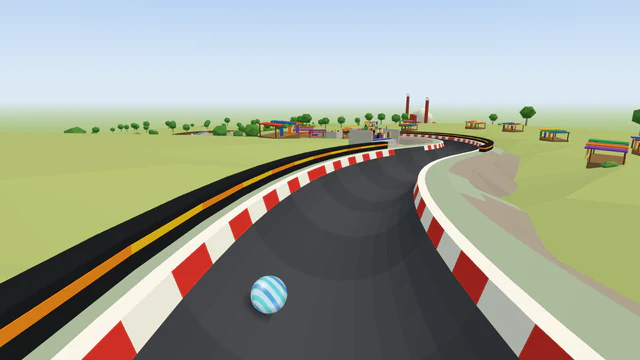
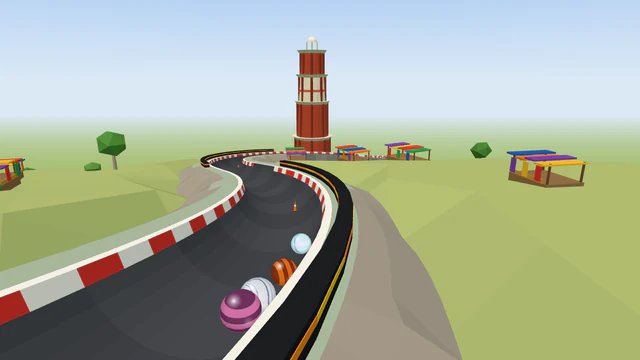
Delhi Red Fort Marble Grand Prix: its own layout; its records start again
Moses's order (7 Nov 2026, 08:26), the second of four: its own layout and opening, two signature
features from the real place, no jump. Until now Delhi was the Grand Prix recipe of 10 Oct 2026
(Dubai's track). A tunnel-launch opening (the Rampart drop through the Lahori Gate, in the fort's
walls: big feature one; first bend right, Pudong's turns left), the Chandni Chowk S-bends (a slalom,
then two cones), the Qutub Minar spiral (big feature two, the signature: a turn and a half round a
new landmark, the Qutub Minar, looks only; its TV camera at the foot), the Jama Masjid sweep, the
Lutyens bank (160°), the Connaught hairpin, the drop to Raj Ghat, the Lodhi S-bends and Kartavya Path
to India Gate. Every bend's direction chosen so no stretch runs close under another. Start shots
from above, then a low chase; the paddle gate. Fewer plane trees, no crowd at Chandni Chowk and
spectator groups 650 m apart: the flyover's triangle budget.

Full report: all 50 lines pass (winner 54.6 s, last 80.5 s, gap 15.7 s, 65 overtakes; layout closest
0.57, first 20 seconds closest 0.78; computer flyover 147k triangles). Website TV camera test passes.
Data update 2027-06-07-delhi-red-fort-marble-grand-prix-new-layout.sql (--relayout: its records start
again). Off the sameness test's known failures. Docs: 06, README, src/tracks/README.md. Server suite
626 pass; website 1810 pass.

Claude-Session: https://claude.ai/code/session_011vSSkqNPL9kncfzrwF15wS

diff --git a/src/tracks/delhi-red-fort-marble-grand-prix.js b/src/tracks/delhi-red-fort-marble-grand-prix.js
@@ -1,57 +1,73 @@
 'use strict';
 
-const { track, plunge, straight, sBends, sweep, spiral, hairpin, splitter, runIn, pileUp, swipe, parked, slalom, boost, rumble } = require('../trackKit');
+// Delhi Red Fort Marble Grand Prix, its own layout (Moses, 7 Nov 2026: four more Grand Prix tracks re-laid the same
+// way as Lagos, Istanbul and Sydney; Delhi second). Until then it was the Grand Prix recipe of 10 Oct 2026 (the same
+// track as Dubai). Now the field drops from the Red Fort's ramparts through the Lahori Gate (big feature one: the
+// tunnel launch, through the fort's walls), threads the Chandni Chowk S-bends, spirals down round the Qutub Minar
+// (big feature two, the signature), sweeps past the Jama Masjid, banks round through Lutyens' Delhi to the Connaught
+// hairpin, drops to Raj Ghat, takes the Lodhi S-bends and runs down Kartavya Path to India Gate. Its records started
+// again with the new layout (tracks.records_since).
+const {
+  track, opening, straight, plunge, sBends, sweep, spiral, hairpin, runIn, peg, slalom, swipe, rumble,
+} = require('../trackKit');
 
 module.exports = track({
   slug: 'delhi-red-fort-marble-grand-prix',
   name: 'Delhi Red Fort Marble Grand Prix',
   difficulty: 'extreme',
-  description: 'From the ramparts of the Red Fort and out under its great gateway, through the bustle of Chandni Chowk and past the Jama Masjid, down onto the ceremonial avenue to India Gate.',
+  description: 'From the Red Fort\'s ramparts and out through the Lahori Gate, through the bustle of Chandni Chowk, spiralling down round the Qutub Minar, past the Jama Masjid and round Lutyens\' Delhi, down to Raj Ghat and along Kartavya Path to India Gate.',
   surface: 'asphalt',
   biome: 'city',
   lighting: 'day',
   variants: ['sunset'],
-  grandPrix: { barrier: 'marigolds' },
-  signature: 'Rampart plunge',
+  grandPrix: { barrier: 'marigolds', groupsEvery: 650 }, // (the small groups of spectators further apart than usual: the flyover's drawing budget)
+  signature: 'Qutub Minar spiral',
   tvCameras: [
-    { section: 'Garden splitter', at: 0.8, side: 'left', distance: 10, height: 8 },
-    { section: 'Avenue spiral', at: 0.8, side: 'left', distance: 10, height: 12 },
+    // (At the foot of the spiral, looking back up it round the tower.)
+    { section: 'Qutub Minar spiral', at: 0.85, side: 'right', distance: 10, height: 12 },
   ],
   billboardFrame: 'plain',
-  start: { landmark: 'red-fort', scenery: ['grandstand'], shots: { countdown: 'above', launch: 'side' } },
+  start: { landmark: 'red-fort', scenery: ['grandstand'], gate: 'paddle', shots: { countdown: 'above', launch: 'low-chase' } },
   finish: { landmark: 'india-gate', scenery: ['grandstand'] },
   designChanges: [
-    'The traffic-cone chicane is at the foot of the Rampart plunge, straight after the tyre stacks, rather than on the finish straight: a start with only the tyre stacks lets the strongest marbles win too often and sends the field into the splitter sorted by strength.',
-    'The fort\'s gateway stands over the foot of the plunge, 85 m from the gate, rather than at its top: higher up the channel is still the starting funnel, wider than the gateway\'s arch.',
-    'The parked auto-rickshaw stands on a straight, "Run to the hairpin", rather than in the Chandni Chowk S-bends: the recipe keeps parked objects to straights (on a bend one traps marbles against it).',
-    'The Garden splitter comes straight after the Chandni Chowk S-bends, before the Mosque sweep, rather than after the hairpin: out of the hairpin the whole field rides one side of the channel and the splitter cannot share it out fairly (measured on Dubai Marble Grand Prix).',
-    'A 50 m straight before the hairpin: the recipe needs a braking zone before the one sharp bend.',
-    'The rumble strips are on a straight, "Kartavya Path", between the spiral and the finish rather than on the spiral: the recipe keeps bumps off bends (marbles high on the wall are thrown off them). The marigold garlands hang on the barriers round every bend.',
+    'A new layout (7 Nov 2026): until then Delhi was physically the Grand Prix recipe of 10 Oct 2026 (the same track as Dubai Marble Grand Prix). Its old signature, the Rampart plunge, goes, and so do the Garden splitter and the boost pad on the Mosque sweep.',
+    'Two Delhi features: the Lahori Gate (big feature one: the tunnel launch, the drop from the ramparts diving through the fort\'s walls) and the Qutub Minar spiral (big feature two, the signature: a turn and a half down round the tower, a new landmark, looks only). Then a banked turn through Lutyens\' Delhi (160°) and the drop to Raj Ghat. No jump: the three jump tracks are used.',
+    'The opening a tunnel launch, its first bend to the right (Pudong Marble Grand Prix\'s turns left): the latest re-layouts opened with a split start, a crest, a pipe drop, a funnel drop and a banked turn. Its start shots (from above, then a low chase) and its paddle gate are its own among the Grand Prix tracks.',
+    'The Chandni Chowk S-bends\' slalom before their two cones, not a cone and then the slalom: the other way round, the first 20 seconds were too like Pudong Marble Grand Prix\'s (0.88).',
+    'Plane trees on the Qutub Minar spiral, the Lodhi S-bends and Kartavya Path only (not on the Lutyens bank or the drop to Raj Ghat): with them everywhere, and the small groups of spectators at the usual spacing, the flyover\'s first frame on a computer drew 151k triangles, over the 150k budget; the groups are 650 m apart and the Chandni Chowk S-bends have market stalls but no crowd.',
+  'Each bend\'s direction chosen out of the 64 ways the six could turn so that no stretch runs close under another (the nearest, the Connaught hairpin, 24 m aside of the spiral and 78 m below it): on the first drawing the Jama Masjid sweep ran 7 m aside of the Chandni Chowk S-bends, 77 m below them, where the follow camera would have gone into the bank between them (as on Nairobi\'s first drawing).',
   ],
+  opening: opening('tunnel-launch', {
+    costumes: { block: 'tyre-stack', slalom: 'traffic-cone' },
+    names: { portal: 'Rampart drop', tunnel: 'Lahori Gate' },
+    tunnel: 'city-wall',
+    dress: { portal: { scenery: ['battlements'] } },
+  }),
   sections: [
     {
-      name: 'Rampart plunge', shape: plunge(80, { grade: 0.6 }),
-      obstacles: [pileUp({ costume: 'tyre-stack', at: 0.42 }), slalom({ costume: 'traffic-cone', from: 0.55, to: 0.97, count: 6, loss: 0.3 })],
-      landmarks: [{ name: 'red-fort-gate', at: 0.86, over: true }],
+      name: 'Chandni Chowk S-bends', shape: sBends({ first: 'right', radius: 70, degrees: 80, grade: 0.17 }), billboards: 2, scenery: ['market-stalls'],
+      obstacles: [slalom({ costume: 'traffic-cone', from: 0.12, to: 0.5, count: 4, loss: 0.15 }), peg({ costume: 'traffic-cone', at: 0.65, line: 'left' }), peg({ costume: 'traffic-cone', at: 0.85, line: 'right' })],
     },
-    { name: 'Chandni Chowk S-bends', shape: sBends({ first: 'left', radius: 75, degrees: 80, grade: 0.13 }), billboards: 2, scenery: ['market-stalls', 'crowd'] },
+    { name: 'Qutub Minar spiral', shape: spiral({ side: 'right', radius: 42, turns: 1.5, grade: 0.2 }), around: 'qutub-minar', scenery: ['plane-trees'] },
     {
-      name: 'Garden splitter', shape: splitter({ side: 'left', balance: { tipOffset: -0.8, left: { drag: 1.32, scrub: 1.32 }, right: { drag: 0.42, scrub: 0.72 } } }),
-      around: 'mughal-fountain', scenery: ['plane-trees'],
+      name: 'Jama Masjid sweep', shape: sweep({ side: 'left', radius: 80, degrees: 120, grade: 0.1 }), billboards: 1,
+      landmarks: [{ name: 'jama-masjid', at: 0.5, side: 'right', distance: 40 }],
     },
-    {
-      name: 'Mosque sweep', shape: sweep({ side: 'right', radius: 80, degrees: 160, grade: 0.07 }), features: [boost({ at: 0.08 })], billboards: 3,
-      landmarks: [{ name: 'jama-masjid', at: 0.5, side: 'left', distance: 40 }],
-    },
+    { name: 'Lutyens bank', shape: sweep({ side: 'left', radius: 60, degrees: 160, grade: 0.12 }) },
     {
       name: 'Run to the hairpin', shape: straight(50, { grade: 0.12 }), billboards: 1, scenery: ['market-stalls'],
-      obstacles: [parked({ costume: 'auto-rickshaw', at: 0.08, side: 'right', length: 5 })],
+      obstacles: [peg({ costume: 'traffic-cone', at: 0.3, line: 'right' })],
     },
-    { name: 'Hairpin', shape: hairpin({ side: 'left' }), obstacles: [swipe({ costume: 'camera-crane', side: 'high' })] },
-    { name: 'Avenue spiral', shape: spiral({ side: 'right', radius: 45, grade: 0.17 }), scenery: ['plane-trees'] },
+    { name: 'Connaught hairpin', shape: hairpin({ side: 'right' }), obstacles: [swipe({ costume: 'camera-crane', side: 'high' })], scenery: ['grandstand'] },
+    { name: 'Down to Raj Ghat', shape: plunge(45, { grade: 0.28, from: 0.16 }), obstacles: [slalom({ costume: 'traffic-cone', from: 0.3, to: 0.9, count: 4, loss: 0.3 })] },
     {
-      name: 'Kartavya Path', shape: straight(90, { grade: 0.15 }), features: [rumble({ from: 0.45, to: 0.95, count: 5 })], billboards: 2,
-      scenery: ['grandstand', 'plane-trees'],
+      name: 'Lodhi S-bends', shape: sBends({ first: 'left', radius: 75, degrees: 85, grade: 0.16 }), scenery: ['plane-trees'],
+      obstacles: [peg({ costume: 'traffic-cone', at: 0.2, line: 'center' }), slalom({ costume: 'traffic-cone', from: 0.4, to: 0.75, count: 3, loss: 0.15 }), peg({ costume: 'traffic-cone', at: 0.9, line: 'right' })],
+    },
+    {
+      name: 'Kartavya Path', shape: straight(60, { grade: 0.15 }), billboards: 2, scenery: ['grandstand', 'plane-trees'],
+      obstacles: [peg({ costume: 'traffic-cone', at: 0.25, line: 'right' }), peg({ costume: 'traffic-cone', at: 0.45, line: 'left' })],
+      features: [rumble({ from: 0.7, to: 0.95, count: 3 })],
     },
     { name: 'Finish', shape: runIn(), scenery: ['grandstand'] },
   ],

diff --git a/src/trackKit/parts.js b/src/trackKit/parts.js
@@ -321,7 +321,7 @@ module.exports = {
     'wudian-hall', 'watchtower', 'pagoda', 'rice-terraces', 'lantern-row', 'temple-of-heaven',
     'dubai-fountain', 'marina', 'harbour', 'opera-house', 'galata-tower', 'hagia-sophia', 'blue-mosque', 'bosphorus-bridge', 'tulip-garden',
     'lagos-skyline', 'national-theatre', 'roundabout-monument', 'kicc-tower', 'acacia', 'safari-truck', 'park-fence',
-    'royal-palace', 'city-hall', 'vasa-museum', 'steamboats', 'red-fort', 'red-fort-gate', 'jama-masjid', 'india-gate', 'mughal-fountain',
+    'royal-palace', 'city-hall', 'vasa-museum', 'steamboats', 'red-fort', 'red-fort-gate', 'jama-masjid', 'india-gate', 'mughal-fountain', 'qutub-minar',
     'kasbah', 'mud-mosque', 'caravan',
     'giant-tree', 'tree-platform', 'glow-flowers', 'snow-castle', 'snow-island', 'ice-palace',
     'ruined-castle', 'sleeping-dragon', 'fallen-statue', 'amphitheatre', 'dragon-mountain',
@@ -422,7 +422,7 @@ module.exports = {
   // What stands in the middle of a splitter, between its two channels (the arch: over one of
   // them), or in the middle of a spiral or a hairpin.
   AROUND: ['mountain-hut', 'big-rock', 'mountain-restaurant', 'mine-headframe', 'nunatak', 'bell-tower', 'arc-de-triomphe', 'obelisk', 'notre-dame', 'oasis', 'twisted-tower', 'river-island', 'anaconda', 'watchtower', 'pagoda',
-    'museum-of-the-future', 'dubai-frame', 'opera-house', 'tulip-garden', 'roundabout-monument', 'acacia', 'mughal-fountain', 'giant-tree', 'snow-island', 'fallen-statue', 'volcano-rock', 'sagrada-familia', 'frozen-waterfall', 'limestone-island', 'sea-islet', 'giant-redwood', 'lantern-chedi', 'watermill', 'confucius-temple', 'castle-keep', 'magician-trunk', 'top-hat', 'jukebox-tower', 'clocktower', 'lighting-rig', 'claw-tower', 'glitch-tower', 'ringed-planet', 'laser-turret', 'water-tower', 'fork-signpost', 'neon-plaza', 'snow-peak',
+    'museum-of-the-future', 'dubai-frame', 'opera-house', 'tulip-garden', 'roundabout-monument', 'acacia', 'mughal-fountain', 'qutub-minar', 'giant-tree', 'snow-island', 'fallen-statue', 'volcano-rock', 'sagrada-familia', 'frozen-waterfall', 'limestone-island', 'sea-islet', 'giant-redwood', 'lantern-chedi', 'watermill', 'confucius-temple', 'castle-keep', 'magician-trunk', 'top-hat', 'jukebox-tower', 'clocktower', 'lighting-rig', 'claw-tower', 'glitch-tower', 'ringed-planet', 'laser-turret', 'water-tower', 'fork-signpost', 'neon-plaza', 'snow-peak',
     'settling-stack', 'voxel-peak', 'basalt-spire', 'beam-tower', 'level-pillars', 'floodlight-mast', 'flame-cauldron', 'medal-podium',
     'island-castle',
     'karst-tower', 'cube-campanile', 'three-towers', 'lake-island', 'cube-pagoda', 'garden-towers', 'granite-island', 'arrowhead-peak', 'geyser-cone', 'riviera-lighthouse', 'pit-garages'],

diff --git a/client/src/three/scenery/kitLandmarksGP.js b/client/src/three/scenery/kitLandmarksGP.js
@@ -393,6 +393,30 @@ function jamaMasjid() {
   for (const x of [-33, 33]) parts.push(piece(new CylinderGeometry(1.8, 2.2, 42, 10), RED, M(x, 21, 8)), ...chhatri(x, 42, 8, 0.9));
   return merge(parts);
 }
+/**
+ * The Qutub Minar, stylised (the centre of Delhi Marble Grand Prix's spiral): a fluted tower tapering through five
+ * storeys, red sandstone below and banded with pale marble above, a balcony ring at the top of each storey and a small
+ * open cupola on top. 64 m tall, 7 m across at the foot.
+ */
+function qutubMinar() {
+  const parts = [piece(new CylinderGeometry(9, 9.5, 1.2, 20), '#c9b8a0', M(0, 0.6, 0))];
+  const storeys = [[7, 6, 18, RED], [6, 5.1, 14, RED], [5.1, 4.3, 11, RED], [4.3, 3.7, 8, '#e8dcc8'], [3.7, 3.2, 7, RED]];
+  let y = 1.2;
+  for (const [r0, r1, h, colour] of storeys) {
+    parts.push(piece(new CylinderGeometry(r1, r0, h, 16), colour, M(0, y + h / 2, 0)));
+    // (The flutes: thin ribs standing proud of the shaft.)
+    for (let k = 0; k < 8; k += 1) {
+      const a = (k / 8) * Math.PI * 2;
+      const rm = (r0 + r1) / 2;
+      parts.push(piece(new CylinderGeometry(0.45 * (r1 / r0), 0.45, h, 5), RED_DARK, M(Math.cos(a) * rm, y + h / 2, Math.sin(a) * rm)));
+    }
+    if (colour !== RED) parts.push(piece(new CylinderGeometry(r1 + 0.05, r0 + 0.05, 1, 16), RED, M(0, y + h * 0.5, 0)));
+    y += h;
+    parts.push(piece(new CylinderGeometry(r1 + 1.4, r1 + 0.6, 0.9, 16), '#e8dcc8', M(0, y + 0.2, 0)));
+  }
+  parts.push(...chhatri(0, y + 0.6, 0, 0.8));
+  return merge(parts);
+}
 /** India Gate, stylised: a tall sandstone arch with a stepped attic and a shallow dome on top. */
 function indiaGate() {
   return merge([
@@ -623,6 +647,7 @@ export const GP_LANDMARKS = {
   'red-fort-gate': { build: redFortGate, radius: 15 },
   'jama-masjid': { build: jamaMasjid, radius: 36 },
   'india-gate': { build: indiaGate, radius: 18 },
+  'qutub-minar': { build: qutubMinar, radius: 10, fit: 9 },
   'mughal-fountain': { build: () => mughalFountain(30, 12), radius: 16 },
   kasbah: { build: kasbah, radius: 30 },
   'mud-mosque': { build: mudMosque, radius: 32 },

diff --git a/test/samenessAllTracks.test.js b/test/samenessAllTracks.test.js
@@ -43,9 +43,8 @@ const KNOWN = {
   'amazon-water-run': ['layout'],
   'rio-jungle-rumble': ['opening', 'opening-kind', 'layout'],
   'china-wall-twister': ['opening', 'opening-kind', 'layout'],
-  // Grand Prix (one design: Dubai's; Stockholm, Lagos, Istanbul, Sydney and Nairobi have their own since 6–7 Nov 2026).
+  // Grand Prix (one design: Dubai's; Stockholm, Lagos, Istanbul, Sydney, Nairobi and Delhi have their own since 6–7 Nov 2026).
   'dubai-marble-grand-prix': ['opening', 'opening-kind', 'layout'],
-  'delhi-red-fort-marble-grand-prix': ['opening', 'opening-kind', 'layout'],
   'sahara-marble-grand-prix': ['opening', 'opening-kind', 'layout'],
   'elderglade-marble-grand-prix': ['opening-kind'], // (its opening and layout are its own since Sydney, Lagos and Stockholm got theirs, 7 Nov 2026)
   'frostmere-marble-grand-prix': ['opening', 'opening-kind', 'layout'],

diff --git a/docs/06-decisions.md b/docs/06-decisions.md
@@ -4,6 +4,7 @@
 
 | Date | Decision | Why |
 |---|---|---|
+| 2026-11-07 | **Delhi Red Fort Marble Grand Prix's new layout built** (technical, on Moses's order of 7 Nov 08:26, the second of four). A tunnel-launch opening (the Rampart drop diving through the Lahori Gate, in the fort's walls: big feature one; its first bend to the right, Pudong's turns left), the Chandni Chowk S-bends (a slalom, then two cones: a cone and then the slalom made the first 20 seconds too like Pudong's), the Qutub Minar spiral (big feature two, the signature: a turn and a half down round a new landmark, the Qutub Minar, looks only; its TV camera at the foot looking back up), the Jama Masjid sweep, the Lutyens bank (160°), the Connaught hairpin, the drop to Raj Ghat, the Lodhi S-bends and Kartavya Path to India Gate. Start shots from above, then a low chase; the paddle gate. Data update `2027-06-07-delhi-red-fort-marble-grand-prix-new-layout.sql` (`--relayout`: its records start again). | The first drawing was 41 s (target 48–55 s), so the sweep and the Lodhi S-bends went in; then the Jama Masjid sweep ran 7 m aside of the Chandni Chowk S-bends, 77 m below (where Nairobi's follow camera went into the bank), so every bend's direction was chosen out of the 64 combinations for the most room under the track above, among those passing the sameness and opening checks. |
 | 2026-11-07 | **Nairobi Marble Grand Prix's new layout built** (technical, on Moses's order of 7 Nov 08:26: four more Grand Prix tracks re-laid like Lagos, Istanbul and Sydney, Nairobi first; each its own layout and opening, two signature features from the real place, no jump). A banked-turn opening to the right (the KICC drop and the City bank: the latest re-layouts opened with a split start, a crest, a pipe drop and a funnel drop), the Uhuru S-bends (a slalom, then a cone: the other way round the first 20 seconds were too like Accra December Beats'), the Expressway loop (the signature: a loop on the elevated Nairobi Expressway, its TV camera just past it), the Run to Westlands and the Westlands hairpin (turning left: turning right, the Mbagathi S-bends ran under the loop's straight and the follow camera went inside the bank between them), the Mbagathi S-bends, the Acacia splitter (a channel either side of a flat-topped acacia, giraffes and zebras beyond; shorter than the Grand Prix one, a 60 m run-in, 100° and a 30 m merge, with its inside channel rougher, 2.1, its outside one smoother, 0.3, and the tip 0.3 m over), the Plains spiral (40 m) and the Plains straight along the park fence. Start shots from the front, then looking back. Data update `2027-06-06-nairobi-marble-grand-prix-new-layout.sql` (`--relayout`: its records start again). | With the full-length Grand Prix splitter the winner took 56 s (target 48–55 s): the straights were not what made it slow (steeper or shorter straights changed little), the 300 m splitter was. Shorter, its inside channel was the quicker way round, hence the rougher inside. The Uhuru S-bends at 75°: at 65° the weakest marbles reached the loop's launch pad more often than the strongest. |
 | 2026-11-07 | **The app's countdown and hit sounds** (technical, after Moses's Android test of build 1.0.0 (2): the beeps about 30 s into the race, no bump or collision sounds; the website fine). Four causes fixed, website sound unchanged: (1) the sound's GO took the whole wait before the race (a slow phone building its track) while the picture is held back at most 12 s (`MAX_HOLD_MS`), so the beeps came that much after GO as shown: now the same cap; (2) at GO as shown, beeps timed for a later GO are dropped (never a countdown after GO); (3) the native player loaded every file at once (Android prepares each in a MediaPlayer) and a file slower than 8 s was lost for the visit (no hit sounds): now two at a time, the start and hit sounds first, and a late file still counts when it arrives; (4) Android ignores a stop while a play is still seeking: stopped once it starts. The race readiness report now carries the build, the beeps, the GO gap and failed loads (back office: Latest app races; the server keeps the new fields after its next deploy). | The countdown must be heard before GO, and the hit sounds in every race. |
 | 2026-11-07 | **Sydney Marble Grand Prix's new layout built** (technical, on Moses's overnight order, 6 Nov 23:14: its own layout, clearly different from Stockholm's, with two Sydney features). The Circular Quay funnel at the gate (a big feature), the Harbour Bridge (straight, steep, no boost pad: out of the funnel the weakest marbles took it far more often), The Rocks (a peg, a slalom, a peg: the first 20 seconds otherwise matched Antelope Slot Spins'), the Circular Quay S-bends, the Opera House splitter (the signature; its tip 2 m over and its inside channel 1.5: with the proven setting nine marbles in ten took one channel), the Botanic Garden spiral, the Woolloomooloo hairpin, the drop to Bondi, the Bondi wave (a half-pipe, two gentle swings: at 18° the camera jumped) and Macquarie Street (no parked car: the slowest marble stalled behind it). The hairpin comes before Bondi: with the wave last but one the ground rose between it and the finish and its banks crowded the finish shot. Start shots from above, then high behind. Spectator groups every 600 m (the drawing budget). Nothing like Stockholm's order (the nearest track, Åre Run, at 0.63). Full report: all 52 lines pass (winner 53.9 s, last 81.2 s, gap 15.8 s, 67 overtakes). Data update `2027-06-04-sydney-marble-grand-prix-new-layout.sql` (`--relayout`); off the sameness test's known failures, and Elderglade's opening and layout now pass too. | Sydney raced the same race as Lagos and Stockholm on every seed. |

diff --git a/docs/README.md b/docs/README.md
@@ -9,7 +9,7 @@
 **Where it stands:**
 - **Website:** live at marblespins.com (Vercel builds every push to `Main`; redeployed by Moses on 1 Nov after the Blocks Series 2 switch-on). Soft start (social media, 10–20 invited test pilots) since the week of 26 Oct. **Official launch 1 Dec 2026**, with the Holiday Season, the season pass and the apps. Google Analytics 4 is on since 31 Oct (after cookie consent); the Meta Pixel is off.
 - **Tracks:** **143 live in ten series**: World Tour, Grand Prix, Coasters, Canyons, Blocks, Track and Field, Rivers (16), Peaks (15), Pinball and Arcade. The 31 holiday tracks are switched on but hidden and closed until 1 Dec 00:00 Swedish time (174 then). **Blocks Series 2: all 20 live** (two big features each): the test five since 31 Oct; the other fifteen (four cities, three rivers, four mountains, four winter tracks) switched on by Moses on 1 Nov after the server deploy. **Saint-Tropez** (World Tour) and **Pudong Marble Grand Prix** (Grand Prix), the first two tracks with the kit's loop, switched on by Moses on 4 Nov 2026 by hand in Railway's query box, after the server deploy; the website redeployed the same morning.
-- **Server:** deployed by Moses on 7 Nov 2026 from Main (code fingerprint `22aa52923453`, `1ed7e9e`): the own layouts of Lagos, Istanbul and Sydney Marble Grand Prix (data updates `2027-06-02-…` to `2027-06-04-…-new-layout.sql`; their records started again). Before that, 6 Nov (`533b9d0d08de`, `645de71`; 487 columns): the records reset on a new layout (`tracks.records_since`) and Stockholm's own layout. Before that, 4 Nov (`d7928db64307`, `ae7dc20`; 177 tracks in the database): Pudong Marble Grand Prix (data update `2027-05-31-add-pudong-marble-grand-prix.sql`). Before that, 3 Nov (`a096af4ab19a`, 176 tracks): the loop engine (physics for the track kit's `loop` piece) and Saint-Tropez (`2027-05-30-add-saint-tropez.sql`). Before that, 2 Nov (`fb4654c0885e`, last server change `6e23a24`; 486 columns): the back office Dashboard, staff accounts (`users.is_staff`), the first-visit steps (`first_steps`), guests made with what they tapped, the hourly IP clean-up, the Security tab loaded on its own and audited (`security-view`), and the first country in the Players list. **Waiting for the next server deploy:** the race readiness report's new fields for the apps (build, beeps, GO gap, failed loads; `src/readiness`: no table or column change), and Lagos Marble Grand Prix's second TV camera taken out (data update `2027-06-05-lagos-marble-grand-prix-tv-camera.sql`; looks only, its records stay), and Nairobi Marble Grand Prix's own layout (the Expressway loop and the Acacia splitter; data update `2027-06-06-nairobi-marble-grand-prix-new-layout.sql`; its records start again). **Waiting for the next app build (1.0.0 (3)):** the app's countdown and hit-sound fixes (website sound unchanged).
+- **Server:** deployed by Moses on 7 Nov 2026 from Main (code fingerprint `22aa52923453`, `1ed7e9e`): the own layouts of Lagos, Istanbul and Sydney Marble Grand Prix (data updates `2027-06-02-…` to `2027-06-04-…-new-layout.sql`; their records started again). Before that, 6 Nov (`533b9d0d08de`, `645de71`; 487 columns): the records reset on a new layout (`tracks.records_since`) and Stockholm's own layout. Before that, 4 Nov (`d7928db64307`, `ae7dc20`; 177 tracks in the database): Pudong Marble Grand Prix (data update `2027-05-31-add-pudong-marble-grand-prix.sql`). Before that, 3 Nov (`a096af4ab19a`, 176 tracks): the loop engine (physics for the track kit's `loop` piece) and Saint-Tropez (`2027-05-30-add-saint-tropez.sql`). Before that, 2 Nov (`fb4654c0885e`, last server change `6e23a24`; 486 columns): the back office Dashboard, staff accounts (`users.is_staff`), the first-visit steps (`first_steps`), guests made with what they tapped, the hourly IP clean-up, the Security tab loaded on its own and audited (`security-view`), and the first country in the Players list. **Waiting for the next server deploy:** the race readiness report's new fields for the apps (build, beeps, GO gap, failed loads; `src/readiness`: no table or column change), and Lagos Marble Grand Prix's second TV camera taken out (data update `2027-06-05-lagos-marble-grand-prix-tv-camera.sql`; looks only, its records stay), Nairobi Marble Grand Prix's own layout (the Expressway loop and the Acacia splitter; data update `2027-06-06-nairobi-marble-grand-prix-new-layout.sql`; its records start again), and Delhi Red Fort Marble Grand Prix's own layout (the Lahori Gate tunnel launch and the Qutub Minar spiral; data update `2027-06-07-delhi-red-fort-marble-grand-prix-new-layout.sql`; its records start again). **Waiting for the next app build (1.0.0 (3)):** the app's countdown and hit-sound fixes (website sound unchanged).
 - **Apps:** iPhone and Android (Capacitor) are built; the Android app is tested on Moses's phone. They need a rebuild for the keep-awake fix and the new sounds. Store submission is planned for 16–20 Nov.
 - **Email: on since 1 Nov 2026** (Brevo; `BREVO_API_KEY` and `EMAIL_FROM` on Railway, a password-reset email arrived in Moses's inbox; sender no-reply@marblespins.com since 4 Nov 2026, marblespins.com re-authenticated in Brevo that day, support replies with support@ as reply-to): password resets, "Confirm your email" for new sign-ups, support replies and contact-form notifications. The pass reminders are not sent yet.
 - **Payments:**

diff --git a/src/tracks/README.md b/src/tracks/README.md
@@ -474,7 +474,7 @@ The Grand Prix tracks' own pieces (looks only, like everything here):
   `'opera-house'` (stylised), `'galata-tower'`, `'hagia-sophia'`, `'blue-mosque'`, `'bosphorus-bridge'`,
   `'tulip-garden'`, `'lagos-skyline'`, `'national-theatre'`, `'roundabout-monument'`, `'kicc-tower'`,
   `'acacia'`, `'safari-truck'`, `'park-fence'`, `'royal-palace'`, `'city-hall'`, `'vasa-museum'`,
-  `'steamboats'`, `'red-fort'`, `'red-fort-gate'`, `'jama-masjid'`, `'india-gate'`, `'mughal-fountain'`,
+  `'steamboats'`, `'red-fort'`, `'red-fort-gate'`, `'jama-masjid'`, `'india-gate'`, `'mughal-fountain'`, `'qutub-minar'` (7 Nov 2026: the centre of Delhi Red Fort Marble Grand Prix's spiral),
   `'kasbah'`, `'mud-mosque'`, `'caravan'`, and our own worlds' `'giant-tree'`, `'tree-platform'`,
   `'glow-flowers'`, `'snow-castle'`, `'snow-island'`, `'ice-palace'`, `'ruined-castle'`,
   `'sleeping-dragon'` (one eye opening), `'fallen-statue'`, `'amphitheatre'`, `'dragon-mountain'`.
